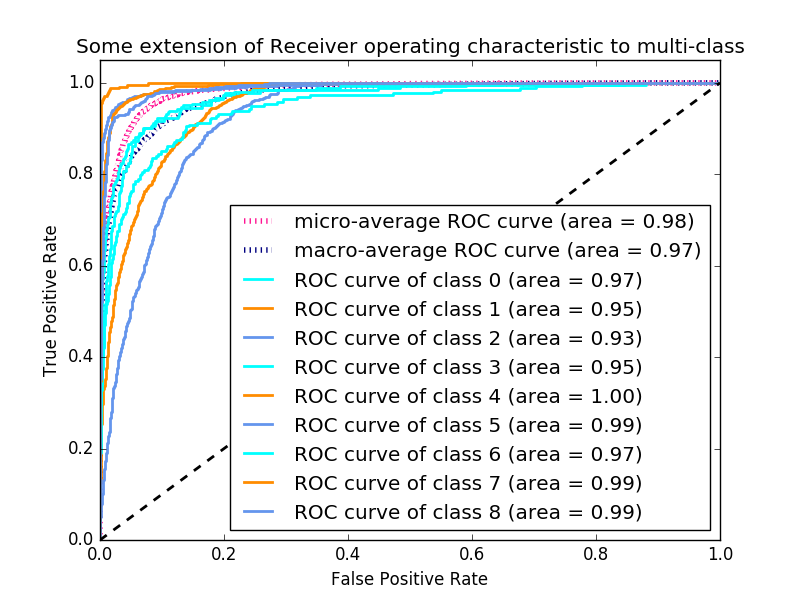
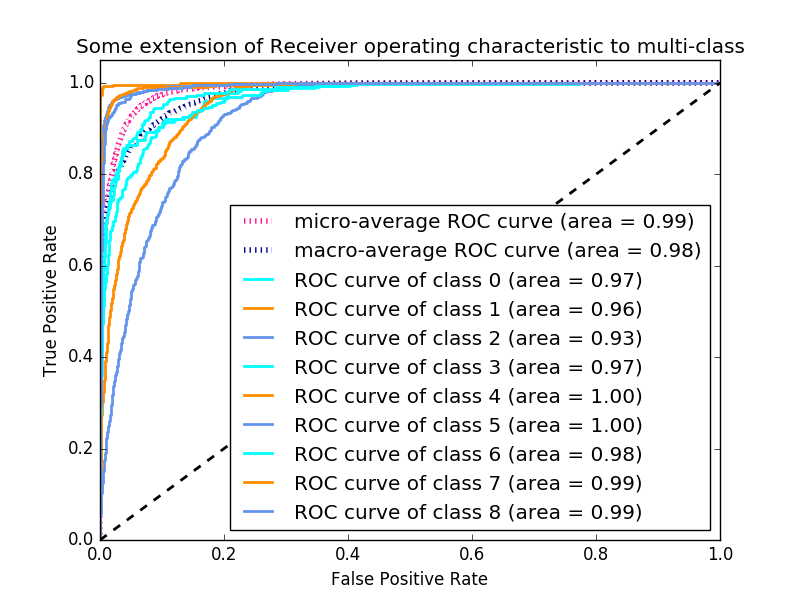
l2 norm&gamma

diff --git a/multiclass_classification/train.py b/multiclass_classification/train.py
@@ -39,11 +39,11 @@ train = data[:int(sz[0] * 0.9), :]
 test = data[int(sz[0] * 0.9):, :]
 
 train_X = train[:, :93]
-train_X = normalize(train_X, norm='l1')
+train_X = normalize(train_X, norm='l2')
 train_Y = train[:, 94]
 
 test_X = test[:, :93]
-test_X = normalize(test_X, norm='l1')
+test_X = normalize(test_X, norm='l2')
 
 test_Y = test[:, 94]
 test_Yb = label_binarize(test_Y,classes=range(0,9))
@@ -63,7 +63,7 @@ param['num_class'] = 9
 
 watchlist = [(xg_train, 'train'), (xg_test, 'test')]
 num_round = 5
-model = xgb.XGBClassifier(max_depth=6,objectiv='multi:softmax',eta=0.1,silent=0,n_jobs=40,num_class=9)
+model = xgb.XGBClassifier(max_depth=10,subsample=0.70,colsample_bytree=0.7,objectiv='multi:softmax',eta=0.05,gammar=5,silent=0,n_jobs=40,num_class=9)
 model.fit(train_X,train_Y)
 
 
